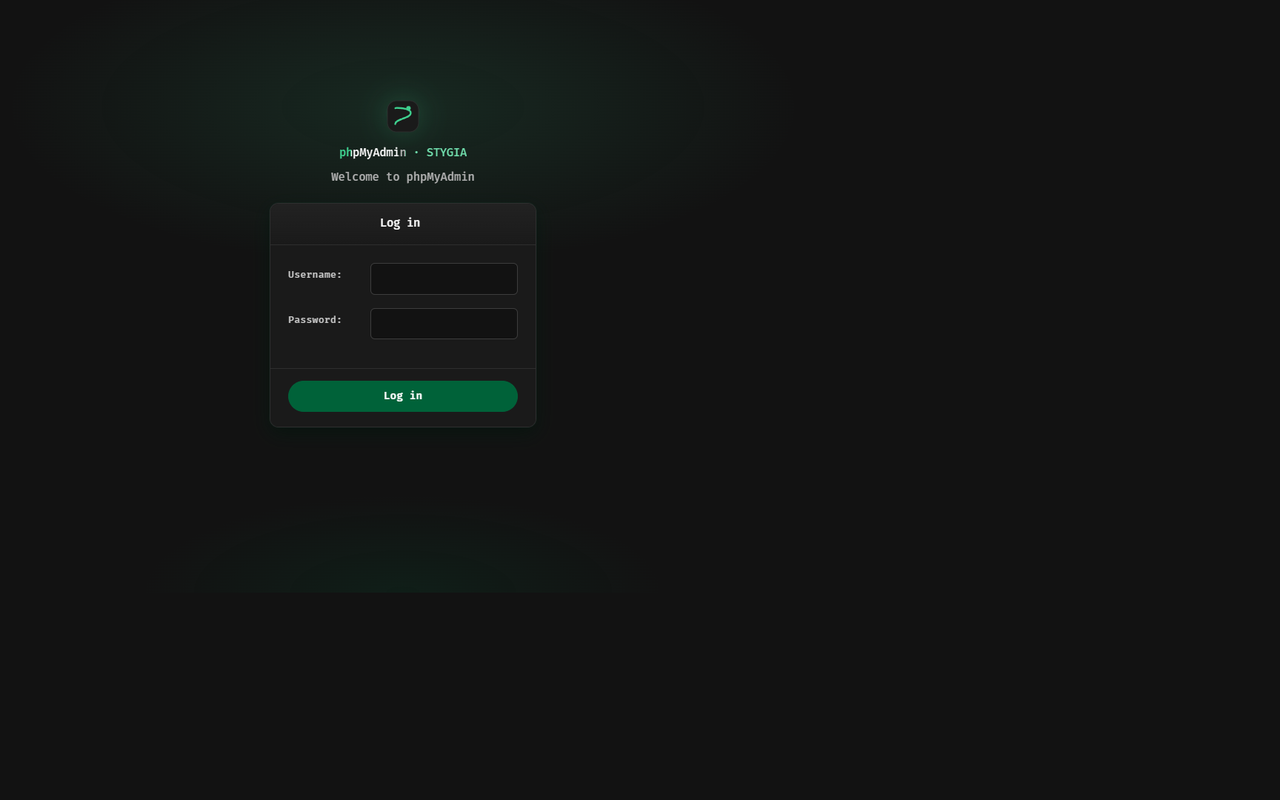
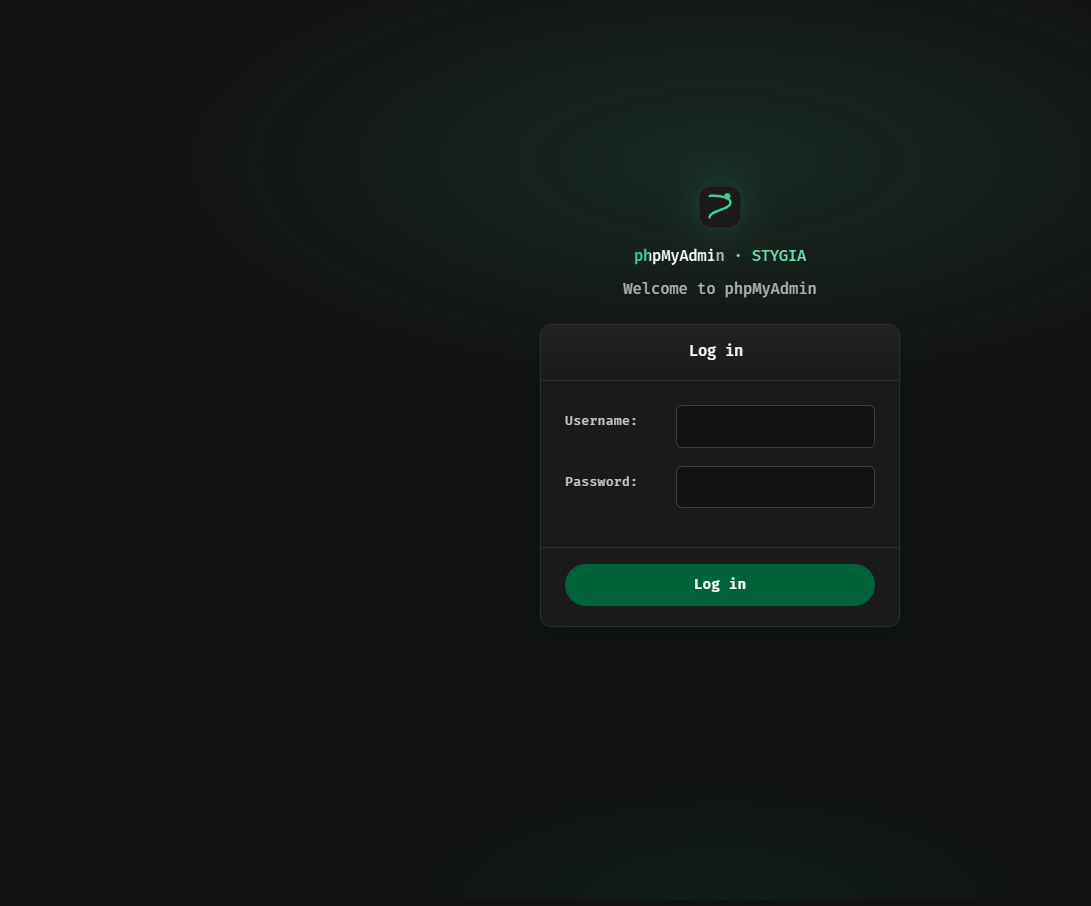
Release v2.2.0: Lucide polish with refreshed screenshots and docs.
Bump version metadata and preview assets so the GitHub release zip matches the current UI and portfolio copy.

diff --git a/README.md b/README.md
@@ -3,6 +3,7 @@
 A dark, elegant theme for [phpMyAdmin](https://www.phpmyadmin.net/) 6.x inspired by the mythological river Styx. Deep green accents, accessible contrast, RTL overrides, and a dense but calm admin UI.
 
 [![phpMyAdmin](https://img.shields.io/badge/phpMyAdmin-6.x-3ecf8e?style=flat-square)](https://www.phpmyadmin.net/)
+[![Version](https://img.shields.io/badge/version-2.2.0-3ecf8e?style=flat-square)](CHANGELOG.md)
 [![License: MIT](https://img.shields.io/badge/License-MIT-2e2e2e?style=flat-square)](LICENSE)
 [![Contrast](https://img.shields.io/badge/contrast-WCAG%20AA-3ecf8e?style=flat-square)](docs/DESIGN.md)
 
@@ -19,7 +20,7 @@ A dark, elegant theme for [phpMyAdmin](https://www.phpmyadmin.net/) 6.x inspired
 - **Accessible** — `:focus-visible`, `prefers-reduced-motion`, `prefers-contrast`, `forced-colors`; body/link/button pairs target WCAG AA
 - **RTL** — full `theme.rtl.css` via rtlcss(theme.css) plus Stygia overrides (SQL stays LTR)
 - **Typography** — bundled Inter (300–600) + JetBrains Mono (woff2, no CDN). If **FiraCode Nerd Font** is installed, it is used first (Propo for UI, Mono for SQL)
-- **Icon system** — Lucide icons adapted for CSS masks, 16px in the UI, accessible compact actions, generated visual catalog and automated audit
+- **Icon system** — Lucide (ISC) adapted for CSS masks, 16px glyphs in 28–32px controls, distinct Browse/Structure/Insert/Empty/Drop metaphors, generated catalog + `npm run icons:check`
 - **Tabs** — phpMyAdmin `nav-pills` restyled as underline tabs; green pills stay on Go/Save only
 - **Typed cells** — browse/insert values colored with [One Dark Pro](https://github.com/Binaryify/OneDark-Pro) tokens (int, string, date, json, …)
 - **SQL editor** — CodeMirror highlighting on the same One Dark Pro palette

diff --git a/CHANGELOG.md b/CHANGELOG.md
@@ -1,6 +1,8 @@
 # Changelog
 
-## Unreleased
+## 2.2.0 — 2026-09-22
+
+Lucide icon family + UI density polish; refreshed screenshots and release zip.
 
 - Replace hand-drawn functional icons with Lucide (ISC), normalized to a 24×24 mask-safe grid and shown at 16 px
 - Map every icon in `scripts/icon_map.json`; Browse, Structure, Insert, Empty, and Drop now use distinct metaphors, and Drop no longer reuses Minus
@@ -9,6 +11,7 @@
 - Make repeated table actions compact only when phpMyAdmin supplies a localized tooltip; preserve accessible text
 - Flatten row-action chrome, strengthen keyboard focus, disabled and forced-color states
 - Improve responsive tabs, page toolbar, wide tables and mobile sidebar bounds
+- Refresh `screen.png`, login/OG assets, and tour GIF for the Lucide UI
 
 ## 2.1.1 — 2026-08-21
 
